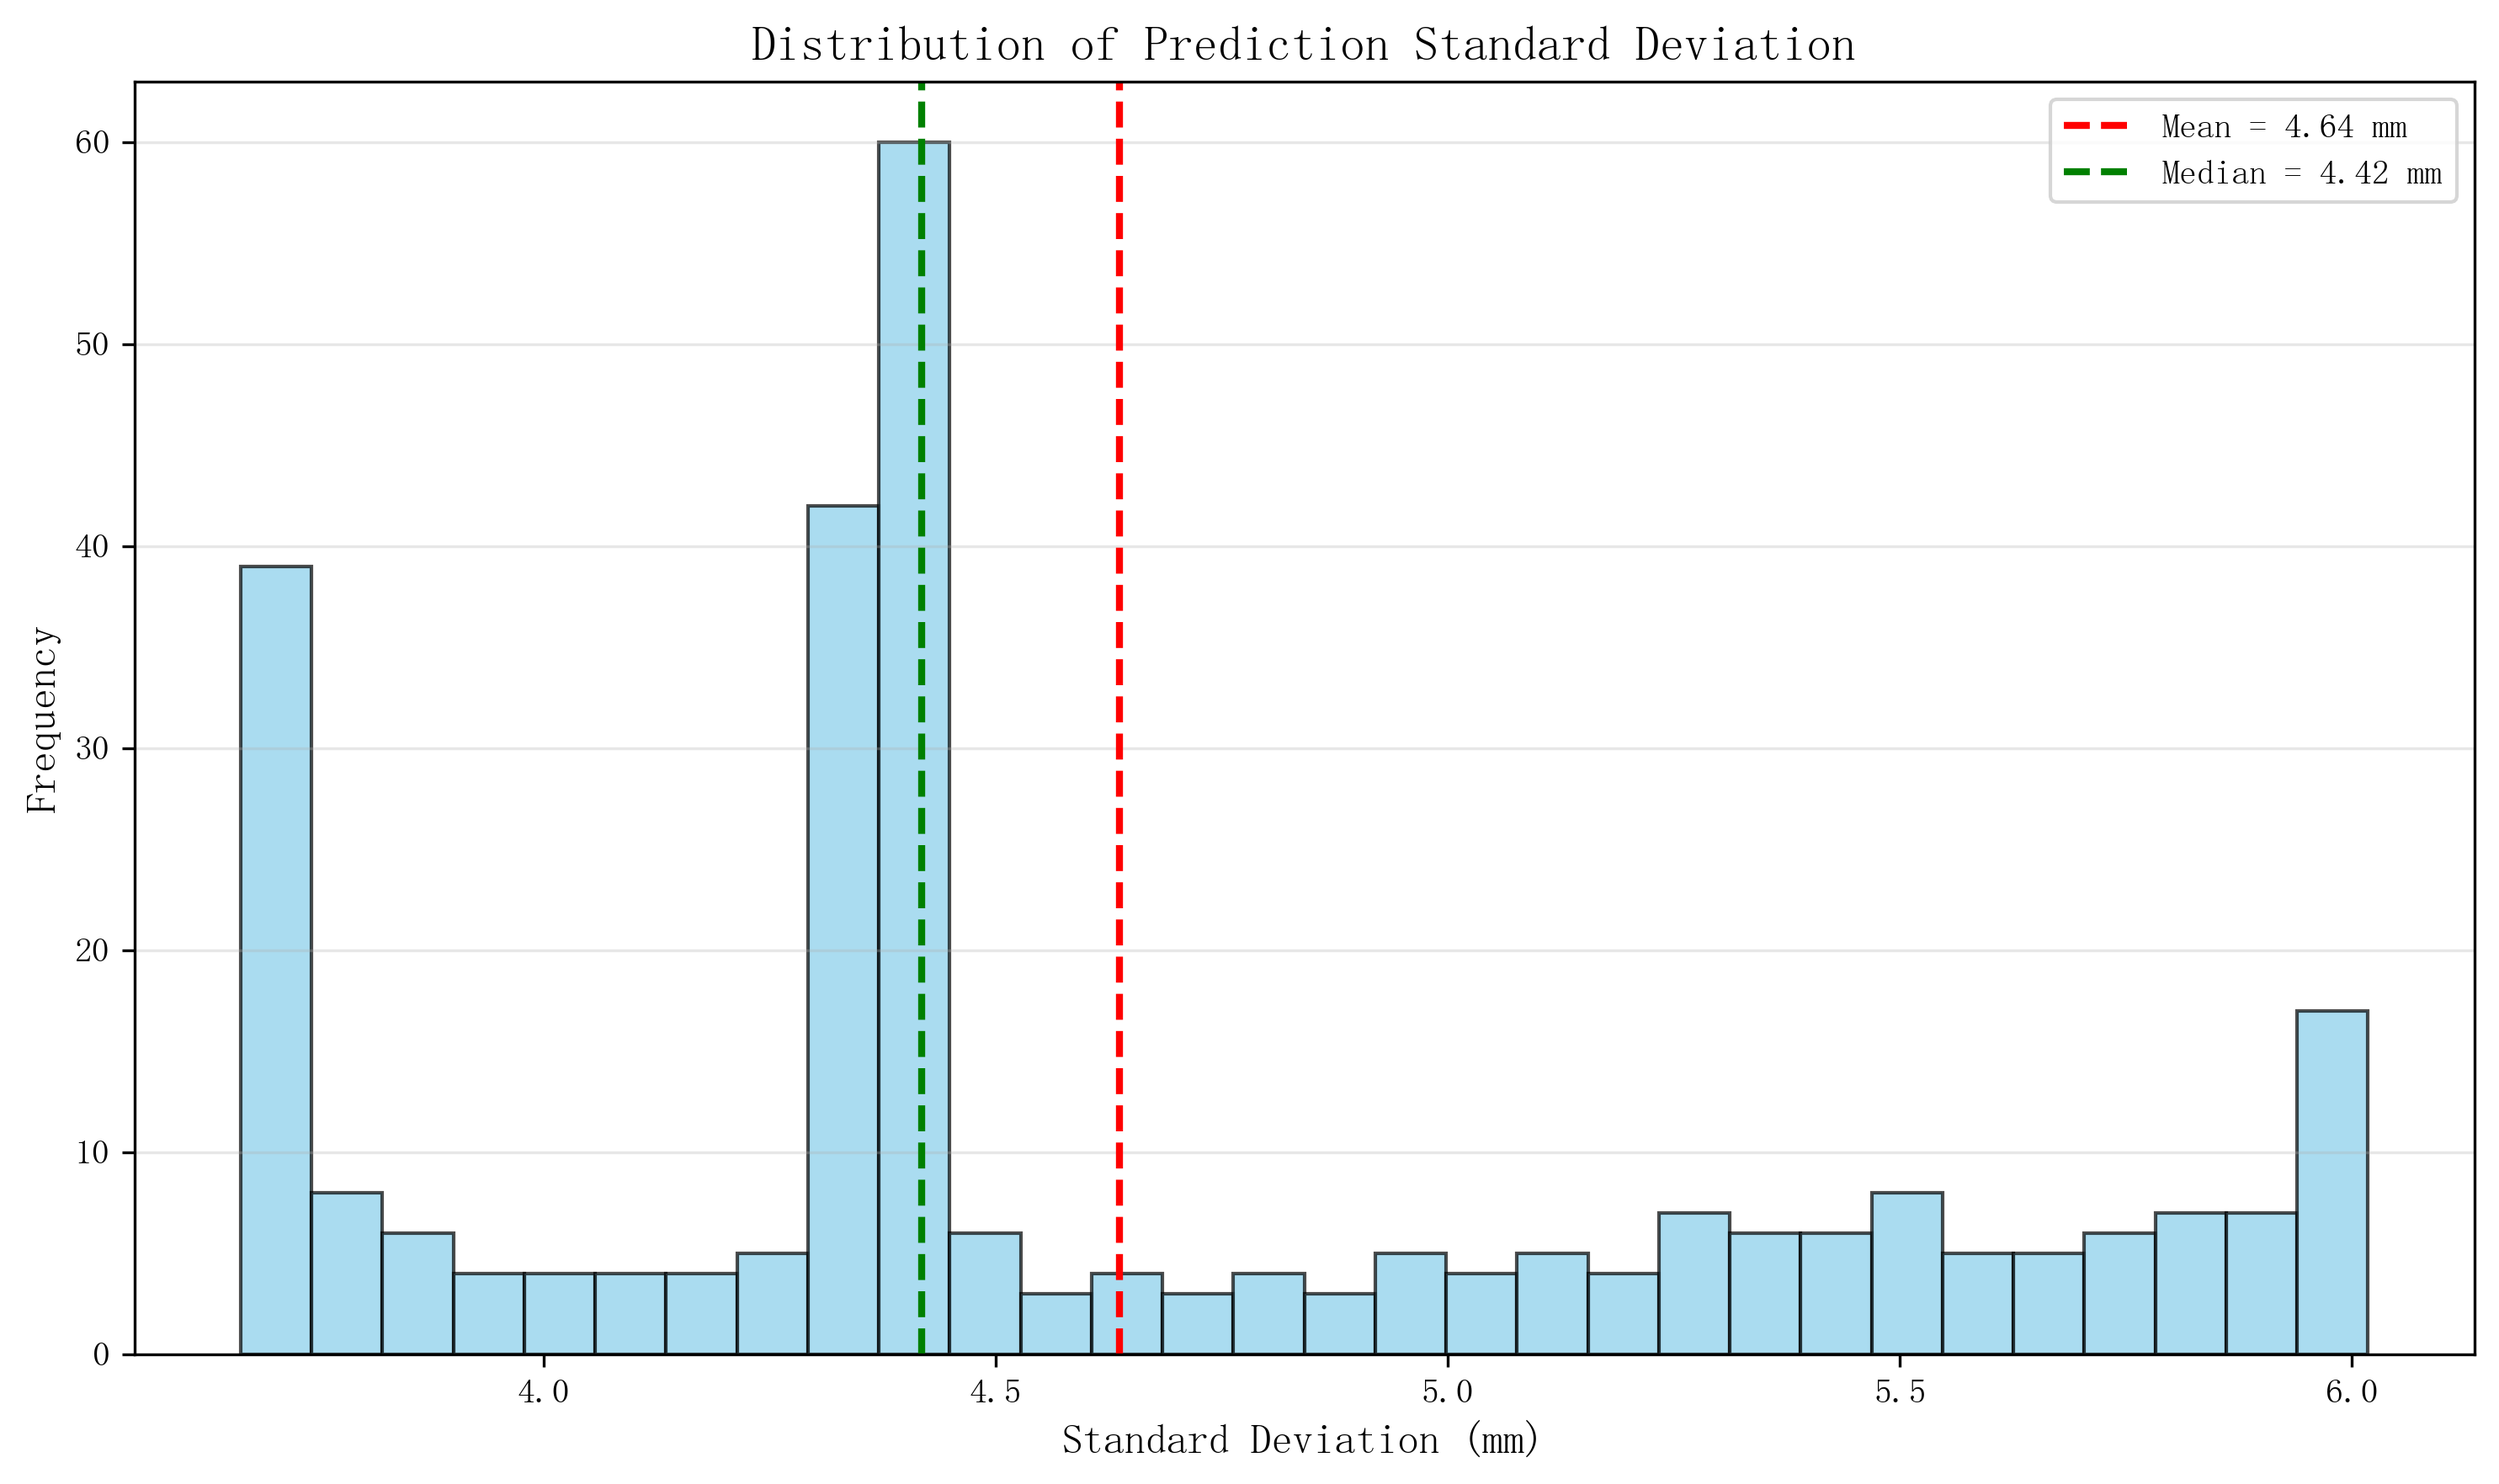
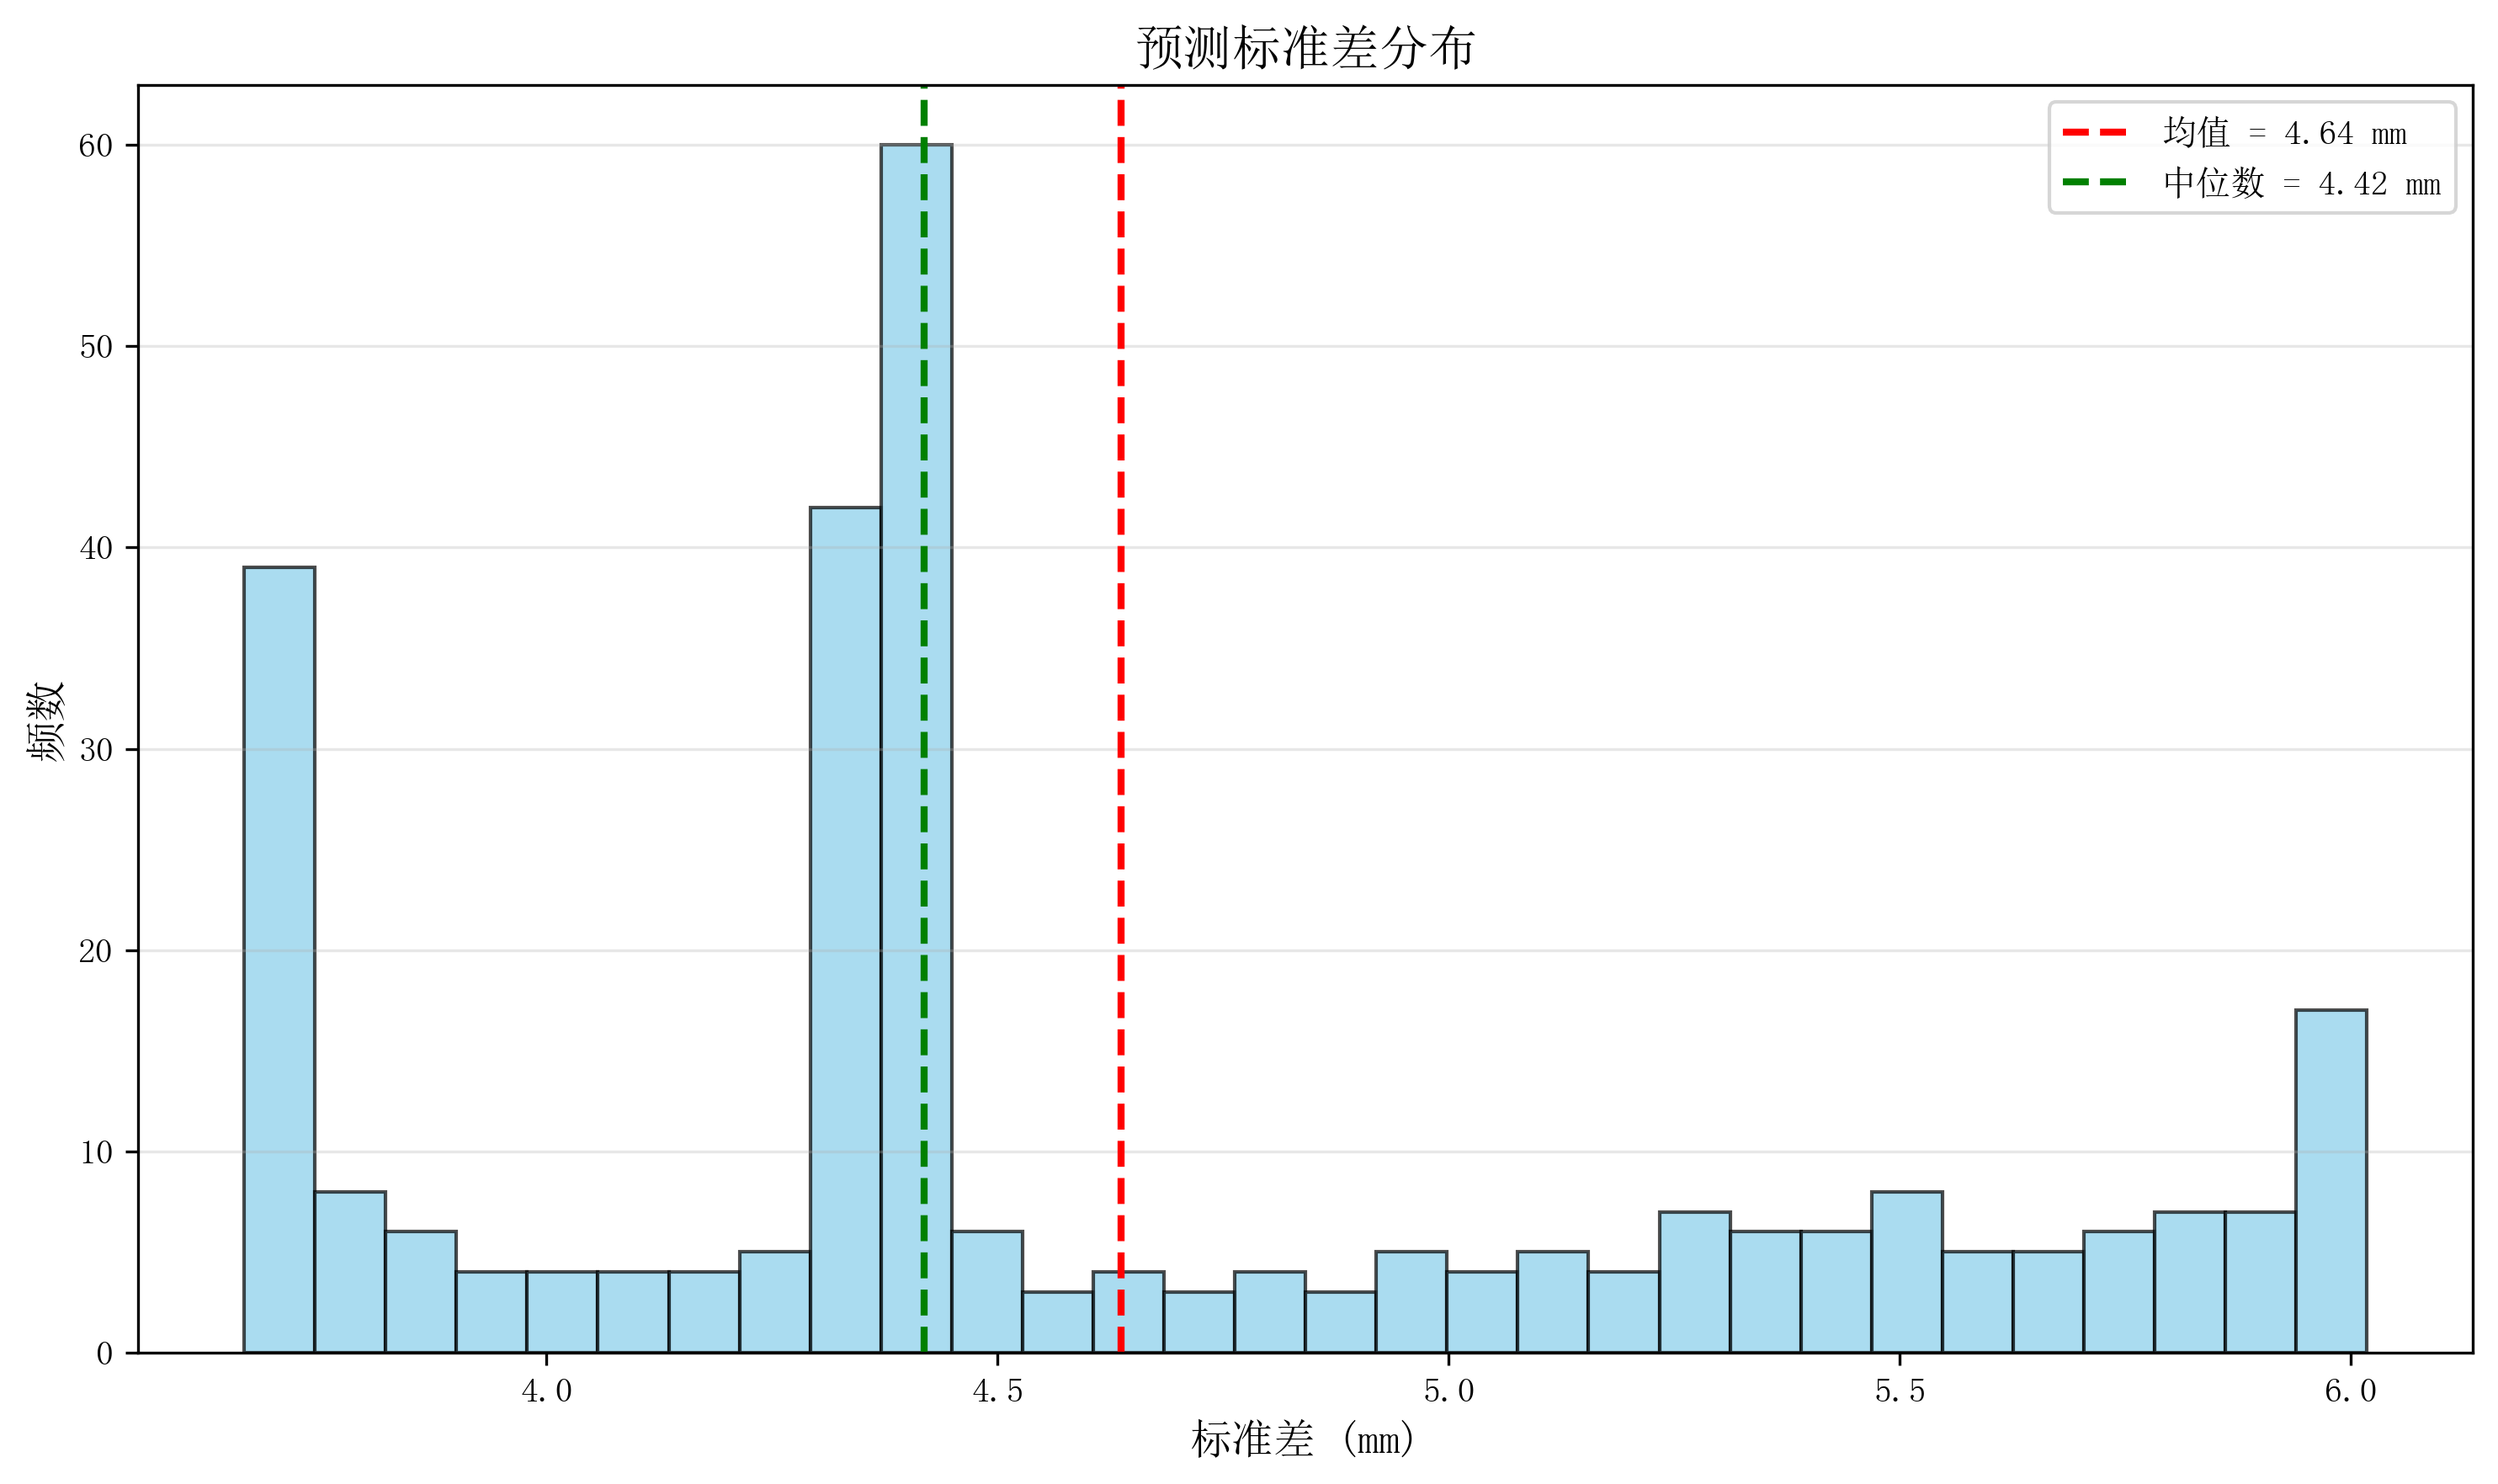
fix: 将 LSTM 不确定性分析图和标准差分布图注释从英文翻译为中文

diff --git a/code/chapter3/scripts/generate_thesis_figures.py b/code/chapter3/scripts/generate_thesis_figures.py
@@ -84,12 +84,12 @@ ax.fill_between(test_dates, 0, stats_df['std'], alpha=0.3, color='blue')
 # 添加平均标准差线
 mean_std = stats_df['std'].mean()
 ax.axhline(y=mean_std, color='r', linestyle='--', linewidth=1.5,
-          label=f'Mean Std = {mean_std:.2f} mm')
+          label=f'平均标准差 = {mean_std:.2f} mm')
 
 # 设置标签和标题
-ax.set_xlabel('Date', fontsize=12)
-ax.set_ylabel('Standard Deviation (mm)', fontsize=12)
-ax.set_title('Temporal Variation of Prediction Uncertainty', fontsize=14, fontweight='bold')
+ax.set_xlabel('日期', fontsize=12)
+ax.set_ylabel('标准差 (mm)', fontsize=12)
+ax.set_title('预测不确定性随时间变化', fontsize=14, fontweight='bold')
 ax.legend(loc='upper right', fontsize=10)
 ax.grid(True, alpha=0.3)
 
@@ -121,14 +121,14 @@ n, bins, patches = ax.hist(stats_df['std'], bins=30, color='skyblue',
 
 # 添加统计信息
 ax.axvline(stats_df['std'].mean(), color='red', linestyle='--',
-          linewidth=2, label=f'Mean = {stats_df["std"].mean():.2f} mm')
+          linewidth=2, label=f'均值 = {stats_df["std"].mean():.2f} mm')
 ax.axvline(stats_df['std'].median(), color='green', linestyle='--',
-          linewidth=2, label=f'Median = {stats_df["std"].median():.2f} mm')
+          linewidth=2, label=f'中位数 = {stats_df["std"].median():.2f} mm')
 
 # 设置标签和标题
-ax.set_xlabel('Standard Deviation (mm)', fontsize=12)
-ax.set_ylabel('Frequency', fontsize=12)
-ax.set_title('Distribution of Prediction Standard Deviation', fontsize=14, fontweight='bold')
+ax.set_xlabel('标准差 (mm)', fontsize=12)
+ax.set_ylabel('频数', fontsize=12)
+ax.set_title('预测标准差分布', fontsize=14, fontweight='bold')
 ax.legend(fontsize=10)
 ax.grid(True, alpha=0.3, axis='y')
 
